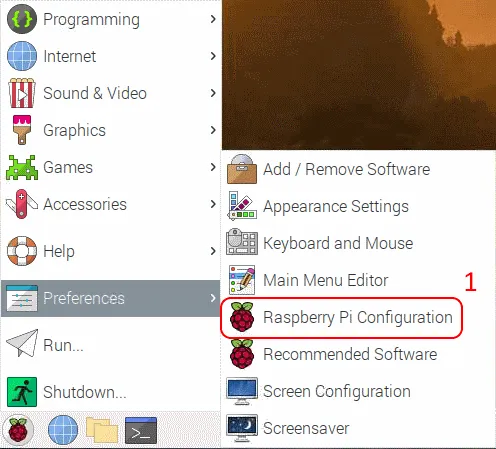
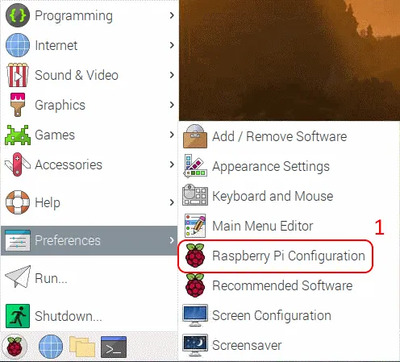
Fix images for README.md and DESCRIPTION.md files.

diff --git a/DESCRIPTION.md b/DESCRIPTION.md
@@ -16,7 +16,7 @@ The [MobileNet CNN](https://github.com/chuanqi305/MobileNet-SSD) is a suitable m
 
 Our code implements a ```FrameProcessor class``` with size=300 because the models we use works with images sized 300 x 300 pixels. The scale and mean parameters have the same values that were used for the MobileNet model training. These values must always be assigned to the model’s training values, else the precision of the model decreases. The person_class value is 15 because human is the 15-th class in the model context. However, since the model was trained on square images it searches objects in centered square subframe (blue border on image below). FrameProcessor also excludes inner object boxes and object data is being transmitted to tracker and face recognizer. ```Tracker class``` instance handles centroids of found boxes for preventing assigning new id to previous person (green point).
 
-<img src="https://github.com/woodenshark/OV_Doorbell_cv/raw/belezyakov_doc/images/video_1.png" width="500">
+![](images/video_1.png)
 
 ## Face recognition
 
@@ -24,7 +24,7 @@ Our code implements a ```FrameProcessor class``` with size=300 because the model
 
 ```FaceRecognizer class (app/face_recognizer.py)``` proceeds each subframe (e.g., image below) from previous step with pickle encoded model of known faces and returns the result. After the tracked ids and recognized faces results are being matched and accumulated in internal dictionary. After length of detections for single id exceeds the hardcoded threshold value the id is being freezed for future matching with most common detected value, which is being assigned to the id object regardless to face recognition result in future.
 
-<img src="https://github.com/woodenshark/OV_Doorbell_cv/raw/belezyakov_doc/images/video_2.png" width="500">
+![](images/video_2.png)
 
 ## Frame processing
 

diff --git a/README.md b/README.md
@@ -20,7 +20,7 @@ Output:
 
 Install 32-bit desktop OS by the [Raspberry Pi Image Tool](https://www.raspberrypi.com/software/). After booting and setting things up increase GPU memory size (since 76 MBytes can be somewhat small for vision projects) using the following menu
 
-<img src="https://github.com/woodenshark/OV_Doorbell_cv/raw/belezyakov_doc/images/raspi_config_1.jpg" width="400" height="380"> <img src="https://github.com/woodenshark/OV_Doorbell_cv/raw/belezyakov_doc/images/raspi_config_2.jpg" width="420" height="380">
+![](images/raspi_config_1.jpg) ![](images/raspi_config_2.jpg)
 
 With a fresh and clean Raspbian operating system, check the EEPROM software version. Check, and if needed update, the EEPROMs with the following commands:
 ```
